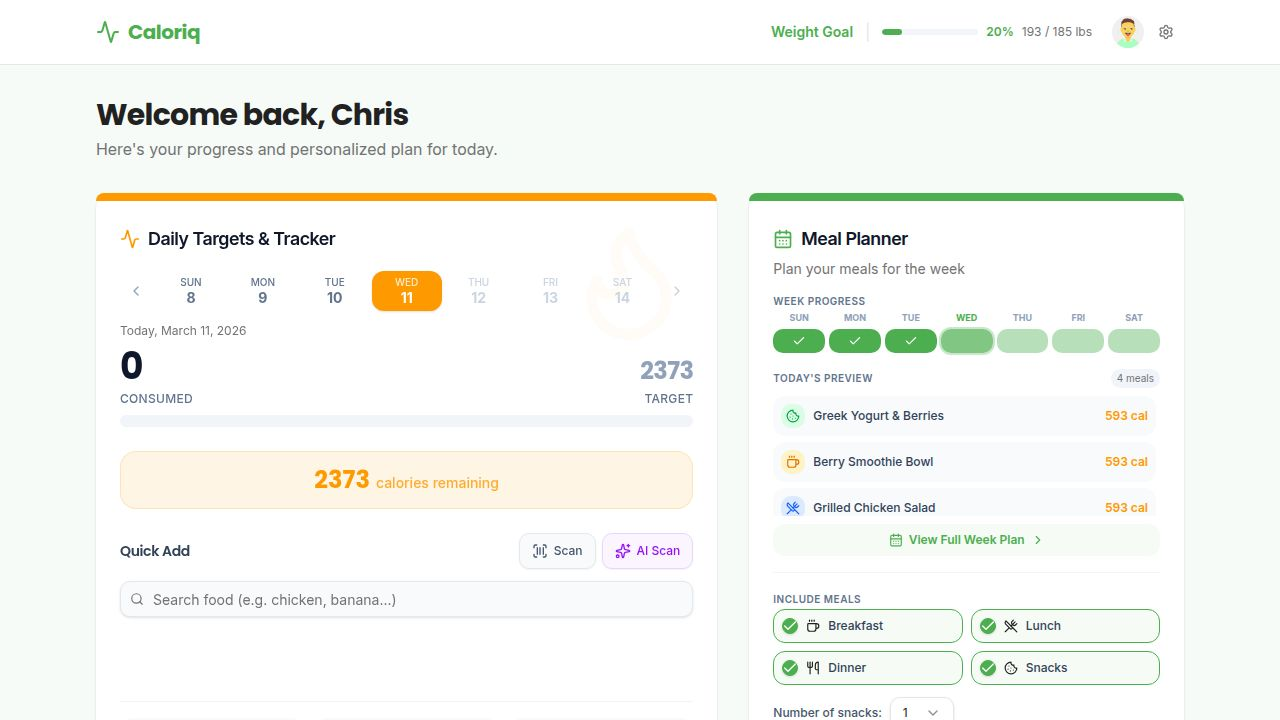
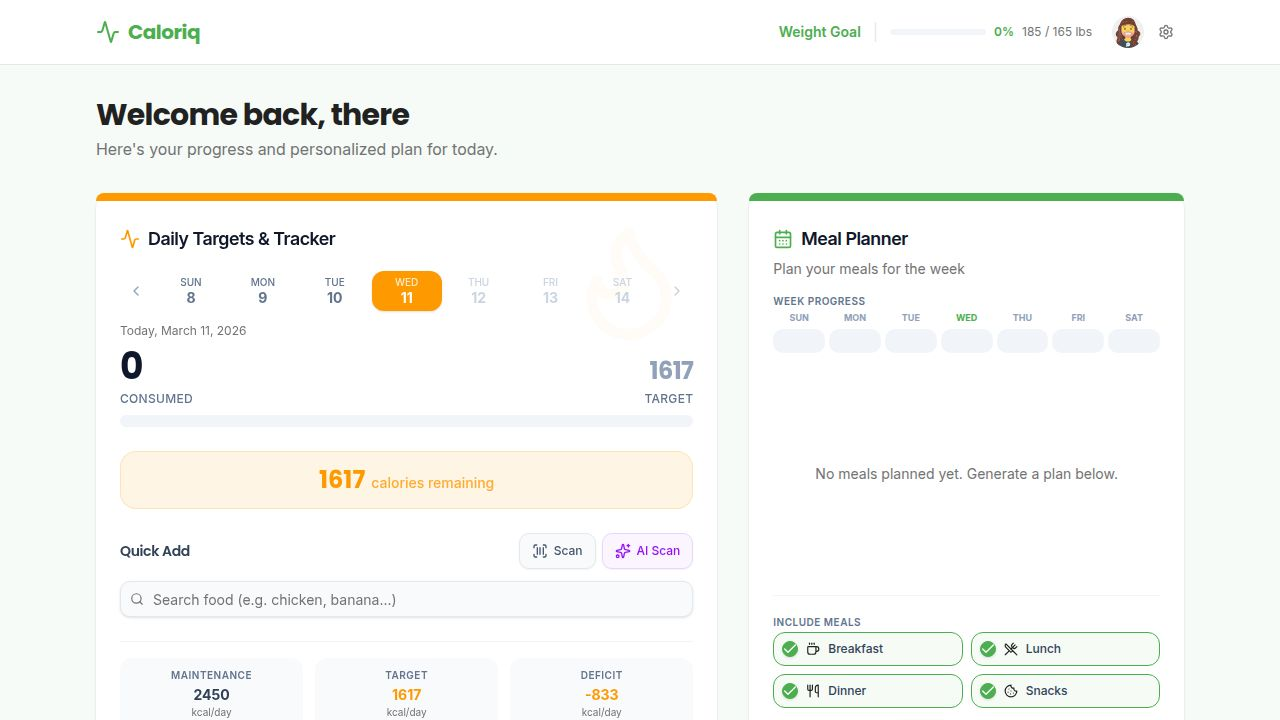
Add exercise tracking and activity level to user profiles
Integrates exercise logging functionality by adding new API routes, database storage, and schema definitions for exercise entries. Updates the onboarding dialog to capture user activity levels and modifies the home page to display and manage exercise data.

Replit-Commit-Author: Agent
Replit-Commit-Session-Id: d0c98cd4-3401-4b9a-9fcc-3167ef5b7d4c
Replit-Commit-Checkpoint-Type: full_checkpoint
Replit-Commit-Event-Id: 2d073343-708e-4fc2-bb99-677f9ddd5ae0
Replit-Commit-Screenshot-Url: https://storage.googleapis.com/screenshot-production-us-central1/b5252e75-7d72-4a27-a063-837869a7ea78/d0c98cd4-3401-4b9a-9fcc-3167ef5b7d4c/0FL3Lja
Replit-Helium-Checkpoint-Created: true

diff --git a/client/src/components/OnboardingDialog.tsx b/client/src/components/OnboardingDialog.tsx
@@ -6,7 +6,7 @@ import { Label } from "@/components/ui/label";
 import { Popover, PopoverContent, PopoverTrigger } from "@/components/ui/popover";
 import { Calendar } from "@/components/ui/calendar";
 import { Switch } from "@/components/ui/switch";
-import { Activity, ChevronRight, CalendarDays, Moon, Sun } from "lucide-react";
+import { Activity, ChevronRight, CalendarDays, Moon, Sun, Armchair, Footprints, Bike, Flame } from "lucide-react";
 import { addWeeks, format } from "date-fns";
 
 interface OnboardingDialogProps {
@@ -18,6 +18,7 @@ interface OnboardingDialogProps {
     currentWeight: number;
     targetWeight: number;
     timeframe: number;
+    activityLevel: string;
   }) => void;
   onClose?: () => void;
   initialName?: string;
@@ -26,6 +27,7 @@ interface OnboardingDialogProps {
   initialCurrentWeight?: number;
   initialTargetWeight?: number;
   initialTimeframe?: number;
+  initialActivityLevel?: string;
   editMode?: boolean;
 }
 
@@ -68,6 +70,13 @@ const avatarOptions = [
   { seed: "Ingrid", label: "Ingrid" },
 ];
 
+const activityLevels = [
+  { value: "sedentary", label: "Sedentary", description: "Little to no exercise, desk job", icon: Armchair, color: "text-slate-500" },
+  { value: "moderate", label: "Moderate", description: "Light exercise 1–3 days/week", icon: Footprints, color: "text-blue-500" },
+  { value: "active", label: "Active", description: "Exercise 3–5 days/week", icon: Bike, color: "text-green-500" },
+  { value: "very_active", label: "Very Active", description: "Hard exercise 6–7 days/week", icon: Flame, color: "text-orange-500" },
+];
+
 export default function OnboardingDialog({
   open,
   onComplete,
@@ -78,6 +87,7 @@ export default function OnboardingDialog({
   initialCurrentWeight,
   initialTargetWeight,
   initialTimeframe,
+  initialActivityLevel,
   editMode
 }: OnboardingDialogProps) {
   const [name, setName] = useState(initialName || "");
@@ -86,6 +96,7 @@ export default function OnboardingDialog({
   const [currentWeight, setCurrentWeight] = useState(initialCurrentWeight || 185);
   const [targetWeight, setTargetWeight] = useState(initialTargetWeight || 165);
   const [timeframe, setTimeframe] = useState(initialTimeframe || 12);
+  const [activityLevel, setActivityLevel] = useState(initialActivityLevel || "moderate");
   const [targetDate, setTargetDate] = useState<Date>(addWeeks(new Date(), initialTimeframe || 12));
   const [calendarOpen, setCalendarOpen] = useState(false);
   const [darkMode, setDarkMode] = useState(() => document.documentElement.classList.contains("dark"));
@@ -99,11 +110,12 @@ export default function OnboardingDialog({
       setCurrentWeight(initialCurrentWeight || 185);
       setTargetWeight(initialTargetWeight || 165);
       setTimeframe(initialTimeframe || 12);
+      setActivityLevel(initialActivityLevel || "moderate");
       setTargetDate(addWeeks(new Date(), initialTimeframe || 12));
       setCalendarOpen(false);
       setStep("profile");
     }
-  }, [open, initialName, initialAvatar, initialStartingWeight, initialCurrentWeight, initialTargetWeight, initialTimeframe]);
+  }, [open, initialName, initialAvatar, initialStartingWeight, initialCurrentWeight, initialTargetWeight, initialTimeframe, initialActivityLevel]);
 
   const handleTimeframeSlider = (weeks: number) => {
     setTimeframe(weeks);
@@ -135,6 +147,7 @@ export default function OnboardingDialog({
         currentWeight,
         targetWeight,
         timeframe,
+        activityLevel,
       });
     }
   };
@@ -218,6 +231,38 @@ export default function OnboardingDialog({
                       data-testid="input-onboard-target-weight"
                     />
                   </div>
+                </div>
+              </div>
+
+              <div className="border-t border-slate-100 dark:border-slate-700 pt-4">
+                <p className="text-xs font-medium uppercase tracking-wider text-muted-foreground mb-3">Daily Activity Level</p>
+                <div className="grid grid-cols-2 gap-2">
+                  {activityLevels.map((level) => {
+                    const Icon = level.icon;
+                    const isSelected = activityLevel === level.value;
+                    return (
+                      <button
+                        key={level.value}
+                        onClick={() => setActivityLevel(level.value)}
+                        className={`flex items-center gap-2.5 p-3 rounded-xl border transition-all text-left ${
+                          isSelected
+                            ? "border-primary/40 bg-primary/5 ring-1 ring-primary/20"
+                            : "border-slate-200 dark:border-slate-700 bg-slate-50 dark:bg-slate-800 hover:border-slate-300 dark:hover:border-slate-600"
+                        }`}
+                        data-testid={`activity-level-${level.value}`}
+                      >
+                        <div className={`w-8 h-8 rounded-lg flex items-center justify-center flex-shrink-0 ${
+                          isSelected ? "bg-primary/10" : "bg-slate-100 dark:bg-slate-700"
+                        }`}>
+                          <Icon className={`h-4 w-4 ${isSelected ? "text-primary" : level.color}`} />
+                        </div>
+                        <div className="min-w-0">
+                          <p className={`text-sm font-semibold ${isSelected ? "text-primary" : "text-slate-700 dark:text-slate-300"}`}>{level.label}</p>
+                          <p className="text-[10px] text-muted-foreground leading-tight">{level.description}</p>
+                        </div>
+                      </button>
+                    );
+                  })}
                 </div>
               </div>
 

diff --git a/shared/schema.ts b/shared/schema.ts
@@ -12,6 +12,7 @@ export const userProfiles = pgTable("user_profiles", {
   targetWeight: real("target_weight").notNull().default(165),
   timeframe: integer("timeframe").notNull().default(12),
   maintenanceCalories: integer("maintenance_calories").notNull().default(2450),
+  activityLevel: text("activity_level").notNull().default("moderate"),
 });
 
 export const foodEntries = pgTable("food_entries", {
@@ -55,11 +56,21 @@ export const plannedMeals = pgTable("planned_meals", {
   steps: jsonb("steps").notNull().default([]),
 });
 
+export const exerciseEntries = pgTable("exercise_entries", {
+  id: varchar("id").primaryKey().default(sql`gen_random_uuid()`),
+  profileId: varchar("profile_id").notNull(),
+  name: text("name").notNull(),
+  duration: integer("duration").notNull(),
+  caloriesBurned: integer("calories_burned").notNull(),
+  date: date("date").notNull(),
+});
+
 export const insertUserProfileSchema = createInsertSchema(userProfiles).omit({ id: true });
 export const updateUserProfileSchema = insertUserProfileSchema.partial();
 export const insertFoodEntrySchema = createInsertSchema(foodEntries).omit({ id: true });
 export const insertSavedRecipeSchema = createInsertSchema(savedRecipes).omit({ id: true });
 export const insertPlannedMealSchema = createInsertSchema(plannedMeals).omit({ id: true });
+export const insertExerciseEntrySchema = createInsertSchema(exerciseEntries).omit({ id: true });
 
 export type InsertUserProfile = z.infer<typeof insertUserProfileSchema>;
 export type UserProfile = typeof userProfiles.$inferSelect;
@@ -69,3 +80,5 @@ export type InsertSavedRecipe = z.infer<typeof insertSavedRecipeSchema>;
 export type SavedRecipe = typeof savedRecipes.$inferSelect;
 export type InsertPlannedMeal = z.infer<typeof insertPlannedMealSchema>;
 export type PlannedMeal = typeof plannedMeals.$inferSelect;
+export type InsertExerciseEntry = z.infer<typeof insertExerciseEntrySchema>;
+export type ExerciseEntry = typeof exerciseEntries.$inferSelect;

diff --git a/server/storage.ts b/server/storage.ts
@@ -5,6 +5,7 @@ import {
   foodEntries,
   savedRecipes,
   plannedMeals,
+  exerciseEntries,
   type UserProfile,
   type InsertUserProfile,
   type FoodEntry,
@@ -13,6 +14,8 @@ import {
   type InsertSavedRecipe,
   type PlannedMeal,
   type InsertPlannedMeal,
+  type ExerciseEntry,
+  type InsertExerciseEntry,
 } from "@shared/schema";
 
 export interface FrequentFood {
@@ -43,6 +46,10 @@ export interface IStorage {
   getPlannedMeals(profileId: string, startDate: string, endDate: string): Promise<PlannedMeal[]>;
   addPlannedMeals(meals: InsertPlannedMeal[]): Promise<PlannedMeal[]>;
   clearPlannedMealsForWeek(profileId: string, startDate: string, endDate: string): Promise<void>;
+
+  getExerciseEntries(profileId: string, date: string): Promise<ExerciseEntry[]>;
+  addExerciseEntry(entry: InsertExerciseEntry): Promise<ExerciseEntry>;
+  removeExerciseEntry(id: string): Promise<void>;
 }
 
 export class DatabaseStorage implements IStorage {
@@ -158,6 +165,22 @@ export class DatabaseStorage implements IStorage {
           sql`${plannedMeals.date} <= ${endDate}`
         )
       );
+  }
+
+  async getExerciseEntries(profileId: string, date: string): Promise<ExerciseEntry[]> {
+    return db
+      .select()
+      .from(exerciseEntries)
+      .where(and(eq(exerciseEntries.profileId, profileId), eq(exerciseEntries.date, date)));
+  }
+
+  async addExerciseEntry(entry: InsertExerciseEntry): Promise<ExerciseEntry> {
+    const [created] = await db.insert(exerciseEntries).values(entry).returning();
+    return created;
+  }
+
+  async removeExerciseEntry(id: string): Promise<void> {
+    await db.delete(exerciseEntries).where(eq(exerciseEntries.id, id));
   }
 }
 

diff --git a/server/routes.ts b/server/routes.ts
@@ -2,7 +2,7 @@ import type { Express } from "express";
 import express from "express";
 import { type Server } from "http";
 import { storage } from "./storage";
-import { insertFoodEntrySchema, updateUserProfileSchema, insertSavedRecipeSchema, insertPlannedMealSchema } from "@shared/schema";
+import { insertFoodEntrySchema, updateUserProfileSchema, insertSavedRecipeSchema, insertPlannedMealSchema, insertExerciseEntrySchema } from "@shared/schema";
 import OpenAI from "openai";
 
 export async function registerRoutes(
@@ -131,6 +131,34 @@ export async function registerRoutes(
       res.json({ success: true });
     } catch (error) {
       res.status(500).json({ message: "Failed to clear planned meals" });
+    }
+  });
+
+  app.get("/api/exercise-entries/:profileId/:date", async (req, res) => {
+    try {
+      const entries = await storage.getExerciseEntries(req.params.profileId, req.params.date);
+      res.json(entries);
+    } catch (error) {
+      res.status(500).json({ message: "Failed to load exercise entries" });
+    }
+  });
+
+  app.post("/api/exercise-entries", async (req, res) => {
+    try {
+      const parsed = insertExerciseEntrySchema.parse(req.body);
+      const entry = await storage.addExerciseEntry(parsed);
+      res.json(entry);
+    } catch (error) {
+      res.status(400).json({ message: "Invalid exercise entry data" });
+    }
+  });
+
+  app.delete("/api/exercise-entries/:id", async (req, res) => {
+    try {
+      await storage.removeExerciseEntry(req.params.id);
+      res.json({ success: true });
+    } catch (error) {
+      res.status(500).json({ message: "Failed to remove exercise entry" });
     }
   });
 

diff --git a/client/src/pages/home.tsx b/client/src/pages/home.tsx
@@ -26,10 +26,11 @@ import {
   Copy,
   Share2,
   ChevronDown,
-  ChevronUp
+  ChevronUp,
+  Dumbbell
 } from "lucide-react";
 import { format, addDays, subDays, isToday, isSameDay, startOfWeek, endOfWeek } from "date-fns";
-import type { UserProfile, FoodEntry, SavedRecipe, PlannedMeal } from "@shared/schema";
+import type { UserProfile, FoodEntry, SavedRecipe, PlannedMeal, ExerciseEntry } from "@shared/schema";
 import { Card, CardContent, CardDescription, CardFooter, CardHeader, CardTitle } from "@/components/ui/card";
 import { Button } from "@/components/ui/button";
 import { Input } from "@/components/ui/input";
